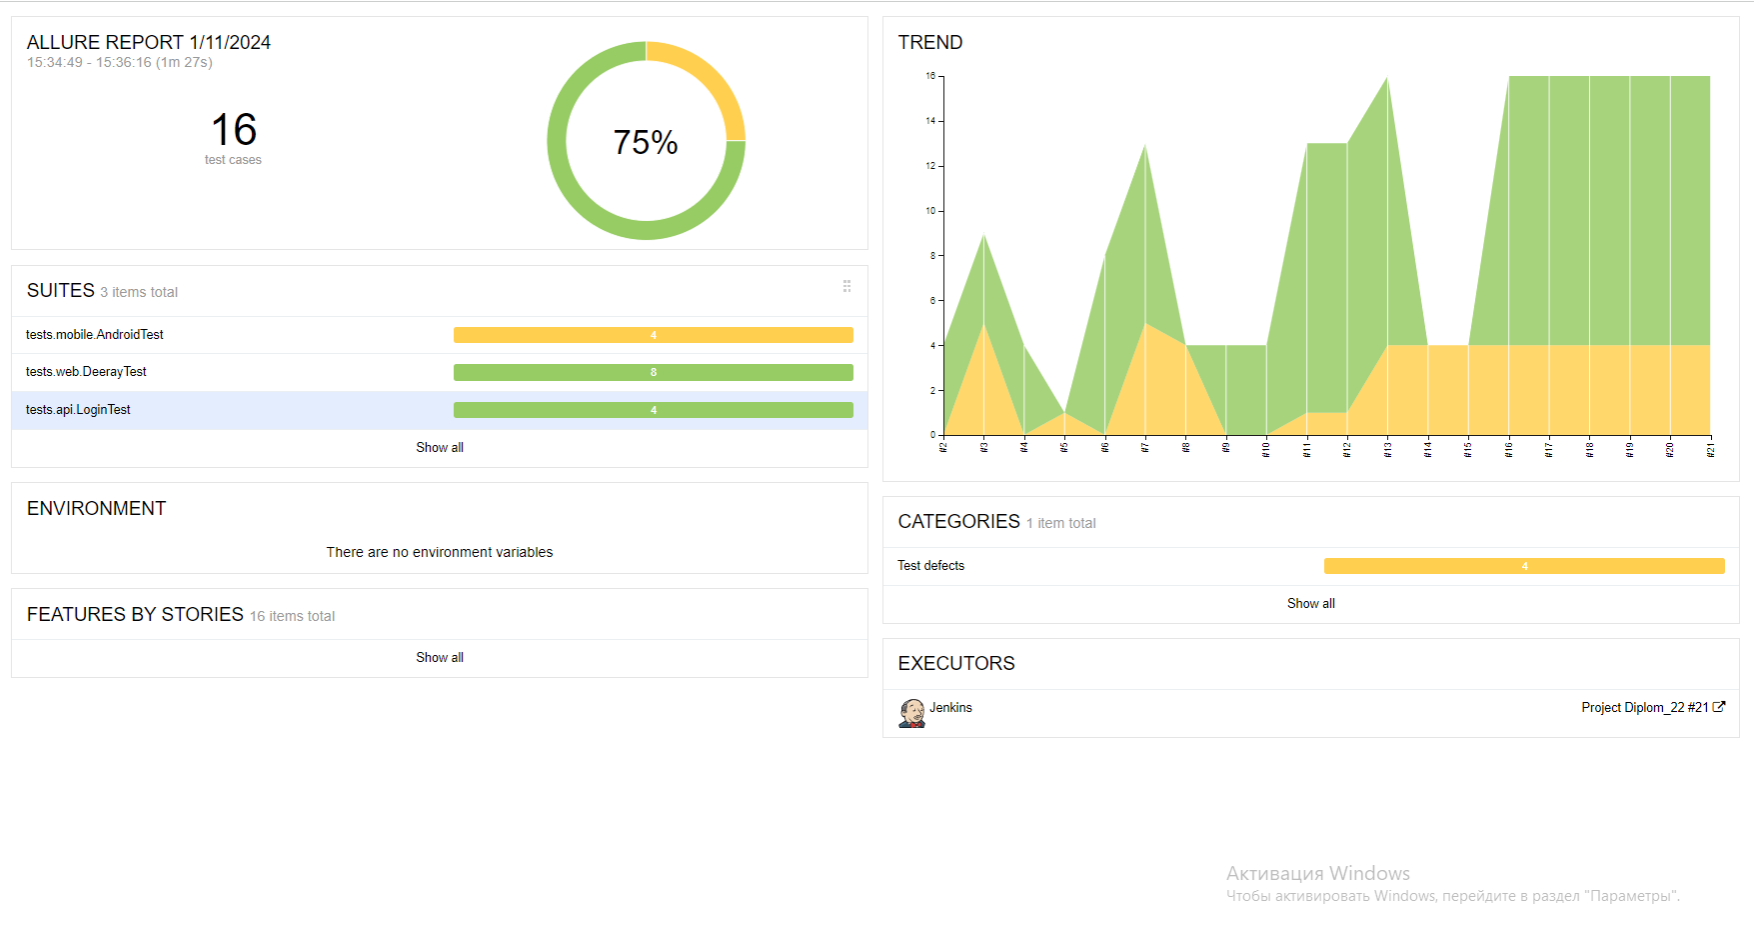
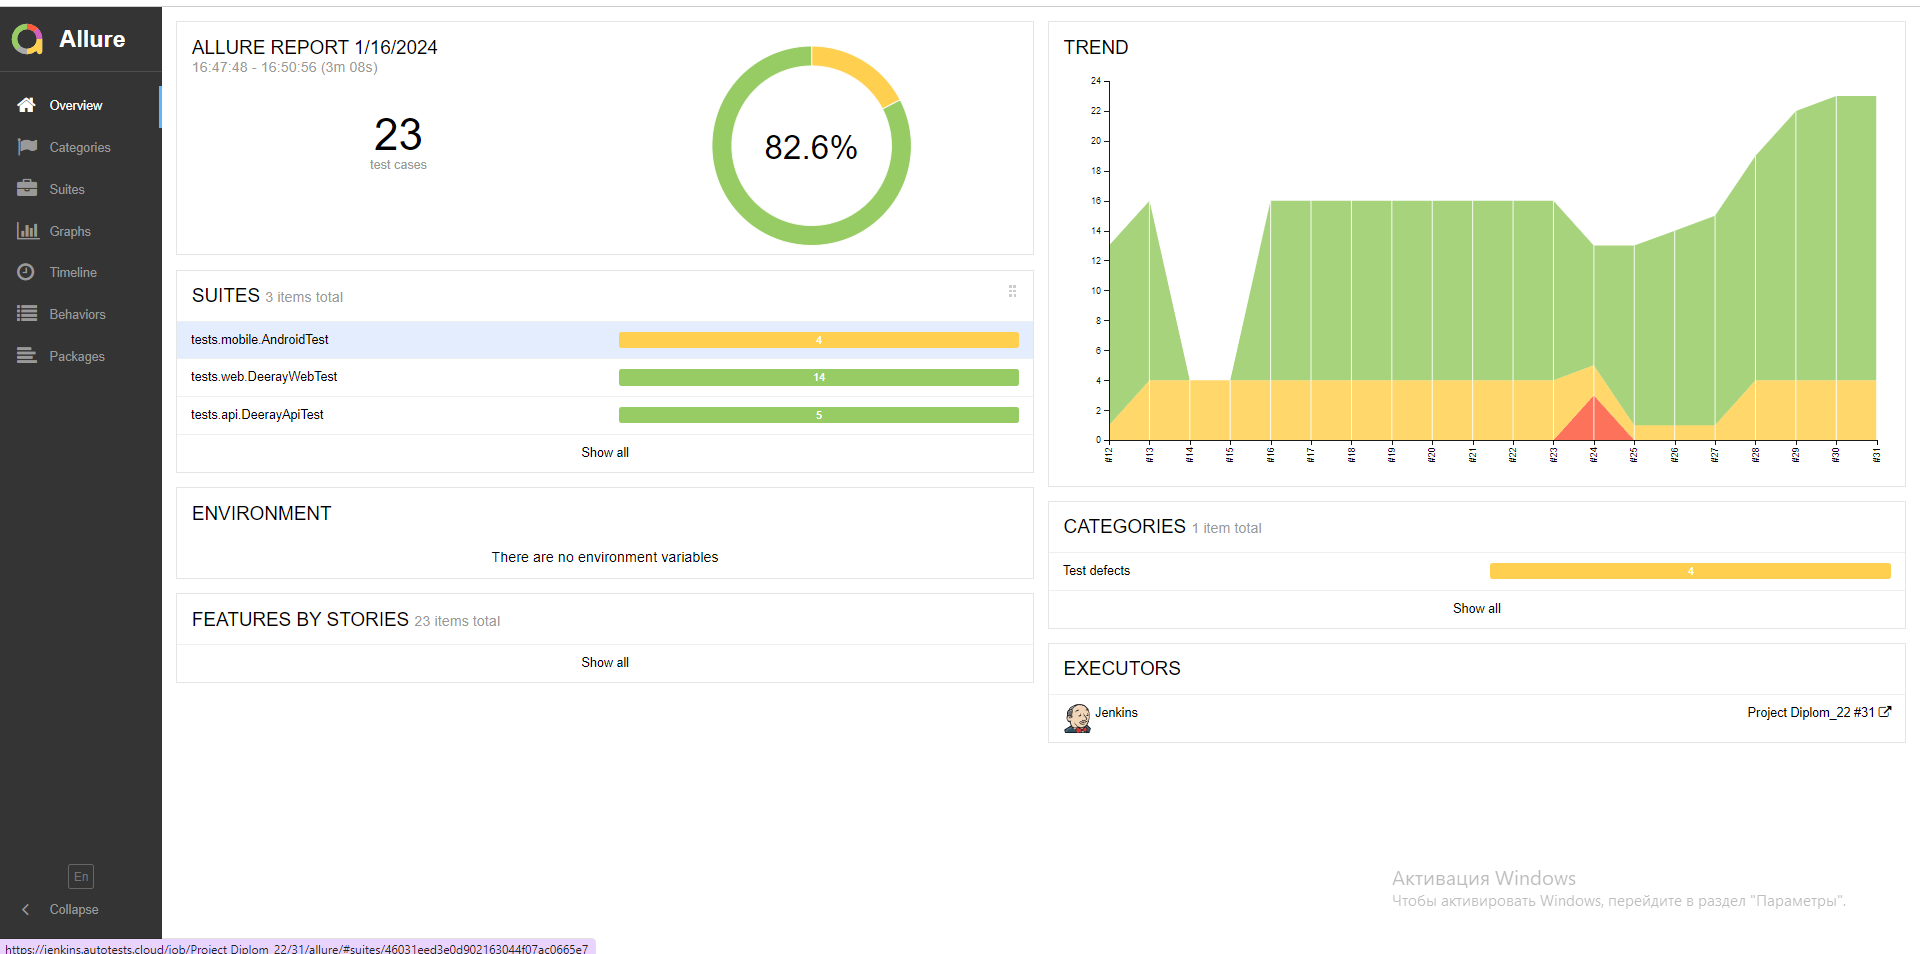
first commit

diff --git a/README.md b/README.md
@@ -53,6 +53,9 @@
 - Проверка успешной авторизации
 - Проверка выхода с аккаунта после успешной авторизации
 - Проверка навигационной панели домашней страницы
+- Проверка смены языка
+- Проверка создания проекта
+- Проверка удаления проекта
 
 ### Api
 
@@ -60,6 +63,7 @@
 - Выполнение неудачного запроса на вход с неверным паролем
 - Выполнение успешного запроса на выход из профиля
 - Выполнени успешного запроса на создание нового проекта
+- Выполнение успешного запроса на удаление проекта
 
 ### Mobile
 
